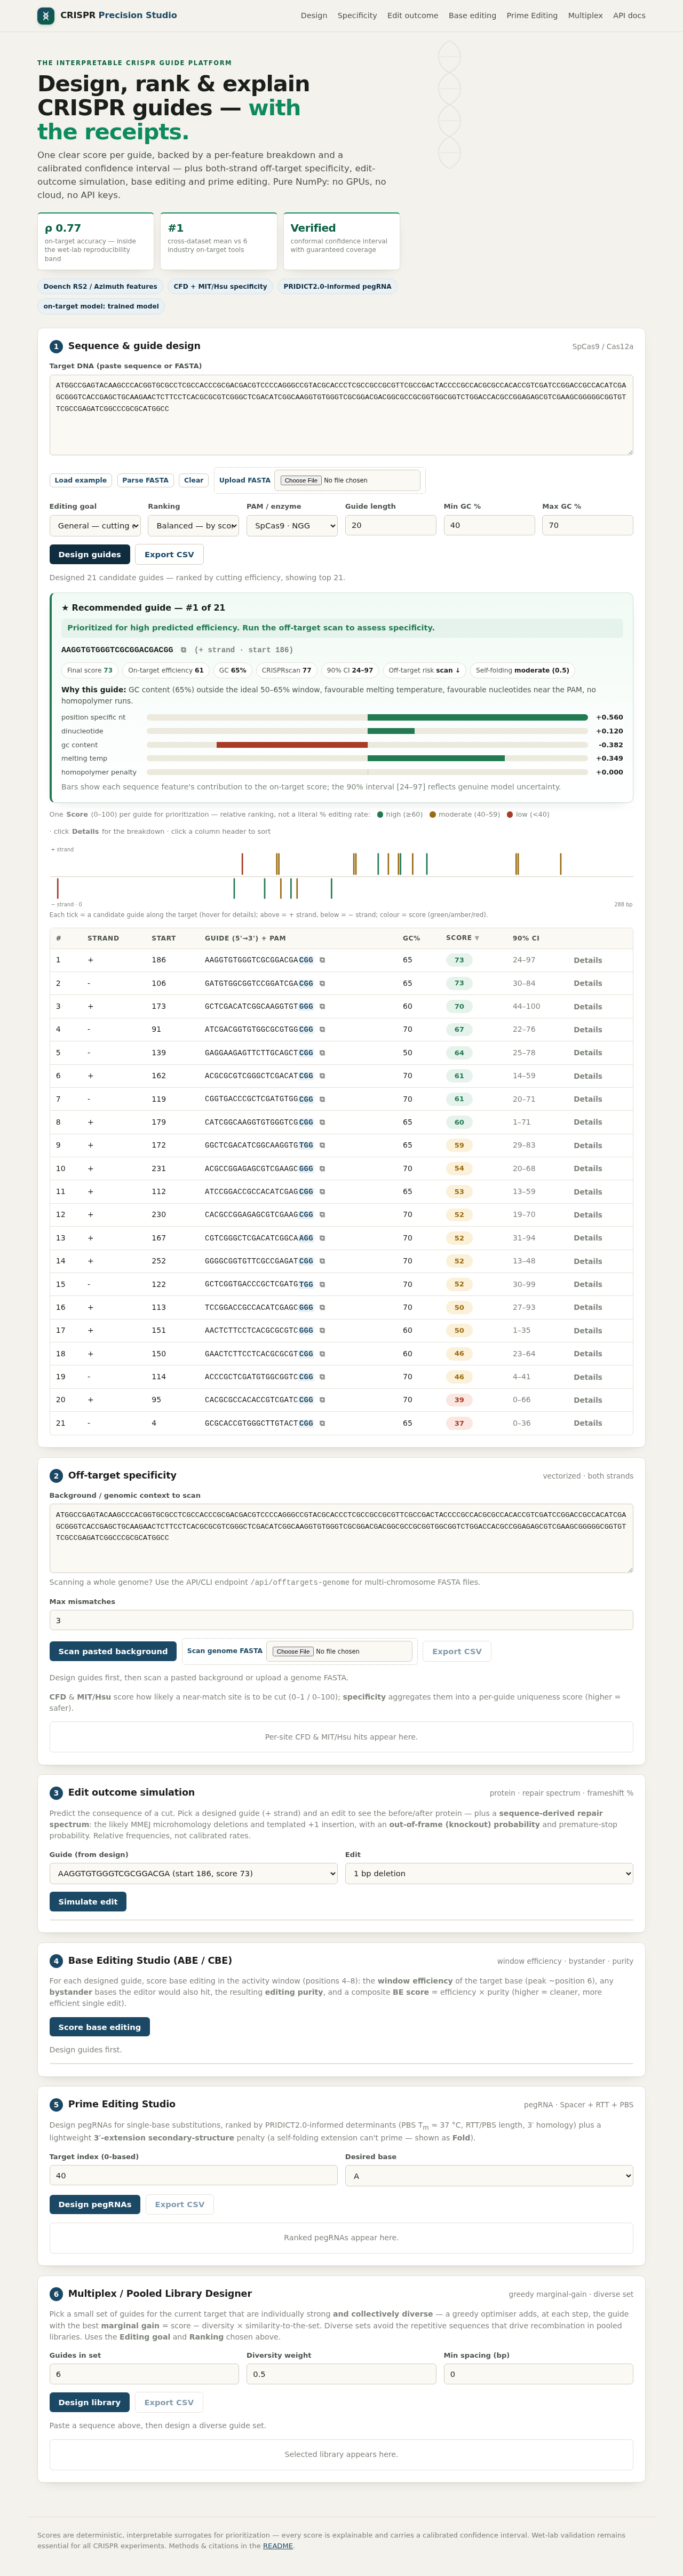
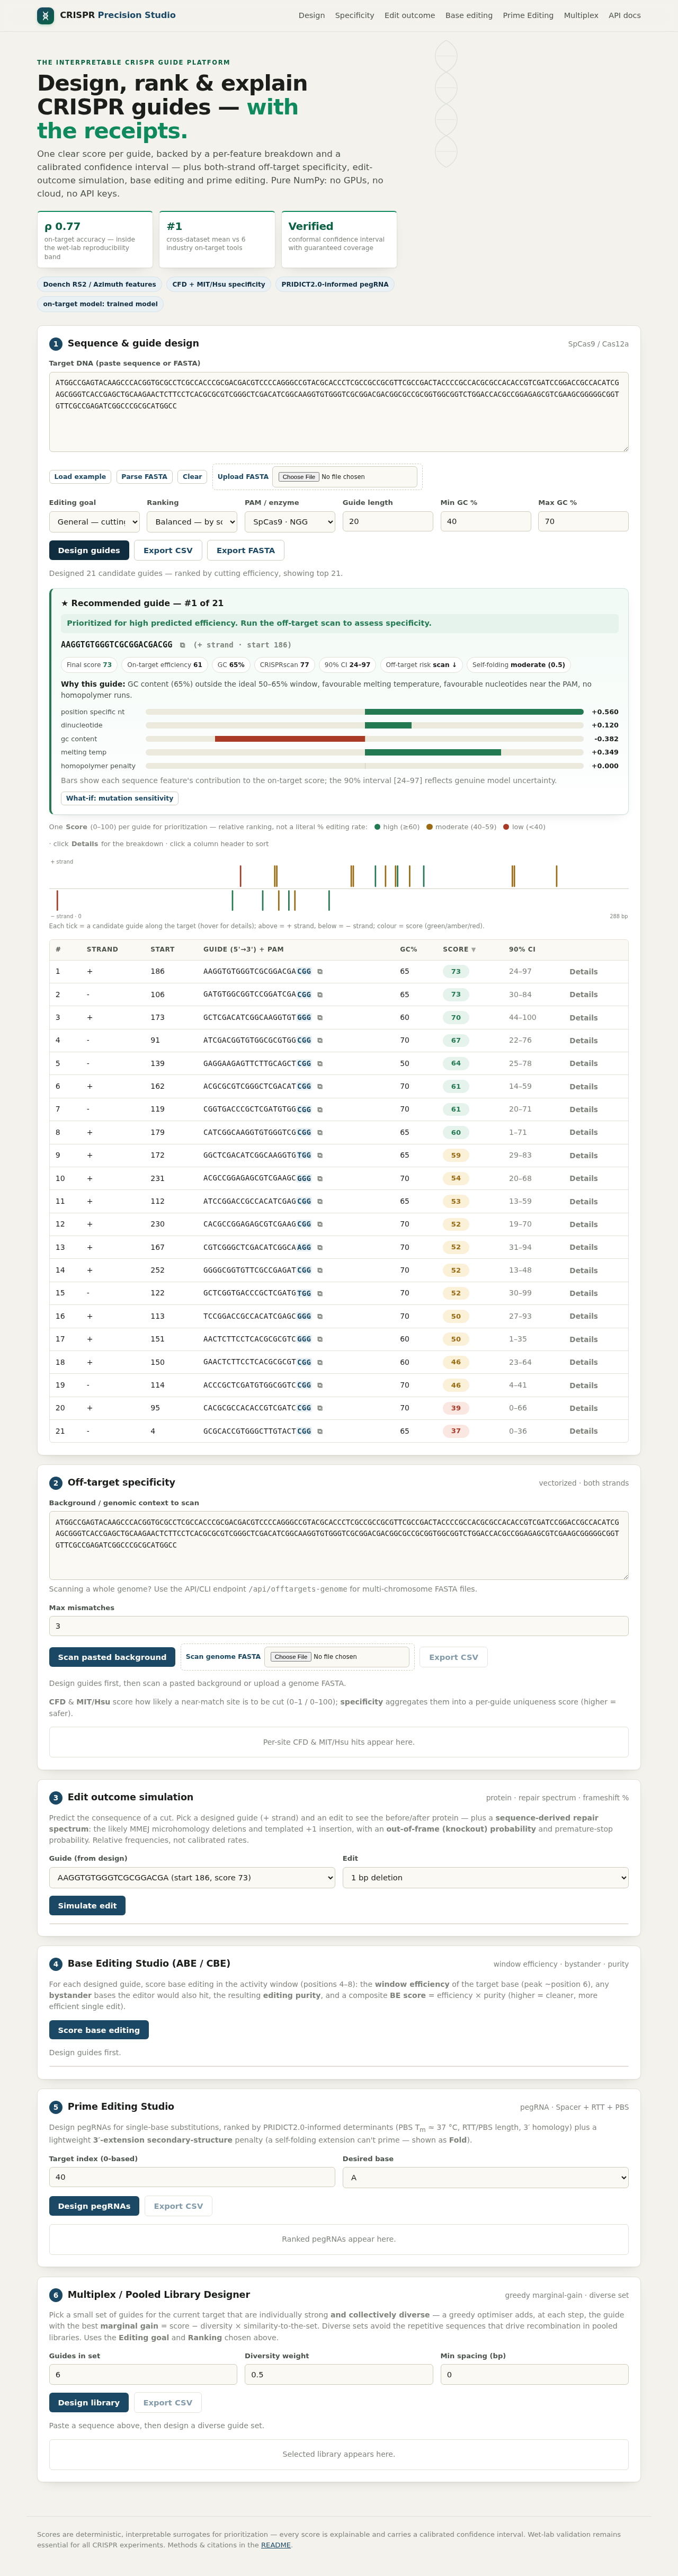
Quick wins: what-if sensitivity map, FASTA export, heuristic-scoring labels
- What-if / saturation-sensitivity tool (models.sensitivity_scan + /api/sensitivity
  + recommendation-card panel): mutate every spacer position to each other base and
  show the Delta-score map, the most-sensitive positions, and the best/worst single
  change. Fast, deterministic, no new data. Makes the model's position preferences
  visible (the seed near the PAM dominates, as expected).
- FASTA export of the designed guides (Benchling / SnapGene-friendly), alongside CSV.
- Clear "heuristic scoring" label when a non-standard system is chosen (Cas12a TTTV,
  SpCas9-NG, non-20-nt) — the learned model + CRISPRscan are validated on SpCas9
  NGG 20 nt, so we say so instead of implying equal confidence.

Tests: +3 (sensitivity shape/extremes/determinism). 83 total, all pass. Docs +
screenshot updated.

Claude-Session: https://claude.ai/code/session_014tmrGNRuvv2ymjpm4A1Y1m

diff --git a/crispr_app/static/app.js b/crispr_app/static/app.js
@@ -68,6 +68,14 @@ function toCSV(rows) {
   return [cols.join(","), ...rows.map((r) => cols.map((c) => esc(r[c])).join(","))].join("\n");
 }
 
+// FASTA export (Benchling / SnapGene / any tool imports FASTA): one record per
+// guide, header carries strand/start/score so the context survives the round-trip.
+function toFASTA(rows) {
+  return rows.map((r) =>
+    `>${r.gRNA}|${r.Strand}strand|start${r.Start}|score${Math.round(Number(r.ConsensusScore) * 100)}\n${r.gRNA}`
+  ).join("\n");
+}
+
 function toTable(elementId, rows) {
   const t = $(elementId);
   if (!rows || !rows.length) { t.innerHTML = ""; return; }
@@ -208,8 +216,39 @@ async function renderRecommendation(g) {
     <div class="chips">${chips}</div>
     <div class="why"><b>Why this guide:</b> ${buildReason(bd, g)}</div>
     ${bars}
-    <p class="status" style="margin:.5rem 0 0">Bars show each sequence feature's contribution to the on-target score${ci ? `; the 90% interval [${ci}] reflects genuine model uncertainty` : ""}.</p>`;
+    <p class="status" style="margin:.5rem 0 0">Bars show each sequence feature's contribution to the on-target score${ci ? `; the 90% interval [${ci}] reflects genuine model uncertainty` : ""}.</p>
+    <div class="row" style="margin-top:.6rem"><button class="ghost tiny" id="whatifBtn">What-if: mutation sensitivity</button></div>
+    <div id="whatifPanel"></div>`;
   el.hidden = false;
+  const wb = $("whatifBtn");
+  if (wb) wb.onclick = () => runWhatif(g);
+}
+
+async function runWhatif(g) {
+  const panel = $("whatifPanel");
+  panel.innerHTML = `<p class="status">Scanning every single-base change…</p>`;
+  let d;
+  try { d = await postJSON("/api/sensitivity", { guide: g.gRNA, goal: lastGoal }); }
+  catch (e) { panel.innerHTML = `<p class="status error">${e.message}</p>`; return; }
+  const max = Math.max(0.05, ...d.per_position.map((p) => p.max_abs));
+  // Per-position sensitivity strip: bar height ∝ how much the best single change
+  // at that position moves the score; colour = does the best change help (green)
+  // or does every change hurt (red, i.e. the current base is already optimal here).
+  const bars = d.per_position.map((p) => {
+    const h = Math.round((p.max_abs / max) * 34) + 2;
+    const helps = d.substitutions.some((s) => s.pos === p.pos && s.delta > 0.001);
+    const col = helps ? "var(--mid)" : "var(--good)";
+    const tip = `pos ${p.pos} (${p.base}): max |Δ| ${p.max_abs}`;
+    return `<span title="${tip}" style="display:inline-flex;flex-direction:column;align-items:center;width:4.4%;">
+      <span style="height:38px;display:flex;align-items:flex-end"><span style="width:8px;height:${h}px;background:${col};border-radius:2px"></span></span>
+      <span style="font-family:var(--mono);font-size:.62rem;color:var(--ink-faint)">${p.base}</span></span>`;
+  }).join("");
+  const fmt = (s) => `position ${s.pos} ${s.from}→${s.to} (${s.delta >= 0 ? "+" : ""}${s.delta})`;
+  panel.innerHTML = `
+    <div style="display:flex;gap:1px;margin-top:.5rem">${bars}</div>
+    <p class="status" style="margin:.4rem 0 0">Height = impact of the best single change at each position (taller = the model is more sensitive there; positions near the PAM/seed usually dominate).
+      <br><b>Best single improvement:</b> ${d.best && d.best.delta > 0 ? fmt(d.best) : "none — this guide is already locally optimal"}.
+      <b>Most damaging change:</b> ${d.worst ? fmt(d.worst) : "—"}.</p>`;
 }
 
 function buildVerdict(g) {
@@ -403,8 +442,14 @@ $("designBtn").onclick = async () => {
       robust: " · robust order (uncertainty-penalised)",
       optimistic: " · optimistic order (best-case CI bound)",
     }[data.ranking_strategy] || "";
-    setStatus($("guideSummary"), `Designed ${data.count} candidate guides — ranked by ${goalLbl}${stratLbl}, showing top ${Math.min(lastGuides.length, 100)}.`);
+    // Non-standard systems (Cas12a TTTV, SpCas9-NG, non-20-nt) fall outside the
+    // SpCas9-NGG-20nt data the learned model + CRISPRscan were validated on —
+    // label the scoring as heuristic so nobody over-trusts it.
+    const standard = $("pam").value === "NGG" && Number($("guideLength").value) === 20;
+    const heuristicNote = standard ? "" : " ⚠ heuristic scoring (model validated on SpCas9·NGG·20 nt).";
+    setStatus($("guideSummary"), `Designed ${data.count} candidate guides — ranked by ${goalLbl}${stratLbl}, showing top ${Math.min(lastGuides.length, 100)}.${heuristicNote}`);
     $("exportGuidesBtn").disabled = !lastGuides.length;
+    $("exportFastaBtn").disabled = !lastGuides.length;
     $("offBtn").disabled = !lastGuides.length;
     $("baseBtn").disabled = !lastGuides.length;
     $("explainPanel").classList.remove("open");
@@ -592,6 +637,7 @@ $("mplexBtn").onclick = async () => {
 
 /* export */
 $("exportGuidesBtn").onclick = () => download("guides.csv", toCSV(lastGuides));
+$("exportFastaBtn").onclick = () => download("guides.fasta", toFASTA(lastGuides));
 $("exportOffBtn").onclick = () => download("offtargets.csv", toCSV(lastOff));
 $("exportPrimeBtn").onclick = () => download("pegrnas.csv", toCSV(lastPeg));
 $("exportMplexBtn").onclick = () => download("multiplex_library.csv", toCSV(lastMplex));

diff --git a/crispr_app/templates/index.html b/crispr_app/templates/index.html
@@ -124,6 +124,7 @@
         <div class="row">
           <button id="designBtn">Design guides</button>
           <button class="ghost" id="exportGuidesBtn" disabled>Export CSV</button>
+          <button class="ghost" id="exportFastaBtn" disabled title="One record per guide — imports into Benchling / SnapGene / any tool">Export FASTA</button>
         </div>
         <p class="status" id="guideSummary">No guides yet — paste a sequence and run design.</p>
         <div class="reccard" id="recCard" hidden></div>

diff --git a/crispr_app/models.py b/crispr_app/models.py
@@ -229,6 +229,36 @@ def predict_on_target(guide: str, ngg_context: str | None = None, backend: str =
     return on_target_score(guide, ngg_context)
 
 
+def sensitivity_scan(guide: str, ngg_context: str | None = None,
+                     goal: str = "general", up: str = "", down: str = "") -> dict:
+    """Single-nucleotide saturation sensitivity of the on-target score.
+
+    Mutates every spacer position to each of the other three bases (keeping the
+    flanking context fixed) and re-scores — a full what-if map showing which
+    positions the model cares about and the best/worst single change. Fast
+    (linear model), fully deterministic, no new data.
+    """
+    guide = guide.upper()
+    base = predict_on_target(guide, ngg_context, goal=goal, up=up, down=down)
+    subs, per_position = [], []
+    for i, orig in enumerate(guide):
+        deltas = []
+        for b in "ACGT":
+            if b == orig:
+                continue
+            mut = guide[:i] + b + guide[i + 1:]
+            s = predict_on_target(mut, ngg_context, goal=goal, up=up, down=down)
+            d = round(s - base, 3)
+            subs.append({"pos": i + 1, "from": orig, "to": b, "score": s, "delta": d})
+            deltas.append(d)
+        per_position.append({"pos": i + 1, "base": orig,
+                             "max_abs": round(max((abs(d) for d in deltas), default=0.0), 3)})
+    best = max(subs, key=lambda r: r["delta"]) if subs else None
+    worst = min(subs, key=lambda r: r["delta"]) if subs else None
+    return {"guide": guide, "baseline": base, "substitutions": subs,
+            "per_position": per_position, "best": best, "worst": worst}
+
+
 def predict_interval(guide: str, ngg_context: str | None = None, level: str = "q90",
                      goal: str = "general", up: str = "", down: str = "") -> dict | None:
     """Conformal prediction interval for the (goal-appropriate) on-target model.

diff --git a/tests/test_sensitivity.py b/tests/test_sensitivity.py
@@ -1,0 +1,30 @@
+"""What-if single-nucleotide saturation sensitivity of the on-target score."""
+from crispr_app import models
+
+
+def test_scan_shape_and_bounds():
+    models.reset_caches()
+    r = models.sensitivity_scan("GATGTGGCGGTCCGGATCGA")
+    assert len(r["substitutions"]) == 20 * 3          # every position × 3 alt bases
+    assert len(r["per_position"]) == 20
+    assert 0.0 <= r["baseline"] <= 1.0
+    for s in r["substitutions"]:
+        assert s["to"] != s["from"]
+        assert 0.0 <= s["score"] <= 1.0
+    models.reset_caches()
+
+
+def test_best_and_worst_are_extremes():
+    models.reset_caches()
+    r = models.sensitivity_scan("GATGTGGCGGTCCGGATCGA")
+    assert r["best"]["delta"] == max(s["delta"] for s in r["substitutions"])
+    assert r["worst"]["delta"] == min(s["delta"] for s in r["substitutions"])
+    models.reset_caches()
+
+
+def test_deterministic():
+    models.reset_caches()
+    a = models.sensitivity_scan("GCTCGACATCGGCAAGGTGT")
+    b = models.sensitivity_scan("GCTCGACATCGGCAAGGTGT")
+    assert a == b   # fully deterministic, no randomness
+    models.reset_caches()

diff --git a/crispr_app/main.py b/crispr_app/main.py
@@ -23,7 +23,7 @@ from analysis import (
     summarize_specificity,
 )
 from base_edit import summarize as base_edit_summarize
-from models import active_backend, available_backends, predict_interval
+from models import active_backend, available_backends, predict_interval, sensitivity_scan
 from scoring import score_breakdown
 from structure import self_complementarity
 from utils import load_fasta_text, validate_sequence
@@ -223,6 +223,22 @@ def explain(payload: ExplainRequest):
     # showed no independent effect on efficiency — flagged for transparency only).
     out["self_complementarity"] = self_complementarity(payload.guide)
     return out
+
+
+class SensitivityRequest(BaseModel):
+    guide: str = Field(..., min_length=18, max_length=25)
+    ngg_context: str | None = None
+    goal: str = "general"
+    up: str = ""
+    down: str = ""
+
+
[email redacted]("/api/sensitivity")
+def sensitivity(payload: SensitivityRequest):
+    """What-if: single-nucleotide saturation sensitivity of the on-target score."""
+    goal = payload.goal if payload.goal in ("general", "knockout") else "general"
+    return sensitivity_scan(payload.guide.strip().upper(), payload.ngg_context,
+                            goal=goal, up=payload.up, down=payload.down)
 
 
 @app.post("/api/upload-fasta")

diff --git a/README.md b/README.md
@@ -22,7 +22,7 @@ Transparent guide *prioritization*: interpretable on-target scoring, both-strand
 
 ## 📸 The interface
 
-![CRISPR Precision Studio UI](docs/ui.png?v=8a433fcf)
+![CRISPR Precision Studio UI](docs/ui.png?v=02740f16)
 
 <sub>Rendered automatically by CI on every push — one **Score** per guide, with a per-feature **Details** breakdown.</sub>
 
@@ -58,6 +58,7 @@ account and no API keys.
 |---|---|---|
 | 🎯 | **Goal-aware ranking** | Pick your intent — *General* (cutting) · *Knockout* (frameshift model) · *Knock-in/HDR* (cut-proximity) · *CRISPRi/a* (TSS-proximity) · *Base editing* (ABE/CBE target in window) — and guides are ranked by the outcome you actually want, each with a plain-language verdict fusing efficiency + specificity + uncertainty. |
 | 🔍 | **Explainable** | Per-feature breakdown shown *by default*; plus an informational self-folding (secondary-structure) QC flag. |
+| 🔬 | **What-if sensitivity** | One click maps every single-base change in the spacer to its Δscore — see which positions the model cares about and the best/worst mutation (saturation mutagenesis, instant). |
 | 📐 | **Calibrated uncertainty** | Distribution-free **conformal** confidence interval per guide — *verified* 90% coverage, with **per-guide adaptive width** (normalized conformal). |
 | ⚖️ | **Uncertainty-aware ranking** | Rank by *balanced*, *conservative* (pessimistic CI bound), *robust* (uncertainty-penalised), or *optimistic* — turn the interval into a decision, not just a display. |
 | 🧬 | **Both-strand off-targets** | Vectorised NumPy scan + per-site **CFD** & **MIT/Hsu** + aggregate specificity. |
@@ -296,6 +297,7 @@ Browser renders one ranked table
 | `POST /api/design-multiplex` | greedy marginal-gain pooled/multiplex guide set (strong + diverse) |
 | `POST /api/prime-design` | ranked pegRNAs (Spacer + RTT + PBS) |
 | `POST /api/explain` | per-feature breakdown + conformal confidence interval |
+| `POST /api/sensitivity` | what-if: Δscore of every single-base spacer mutation (saturation map) |
 | `POST /api/upload-fasta` | parse pasted FASTA / plain DNA |
 | `GET /api/models` | active & available on-target backends |
 